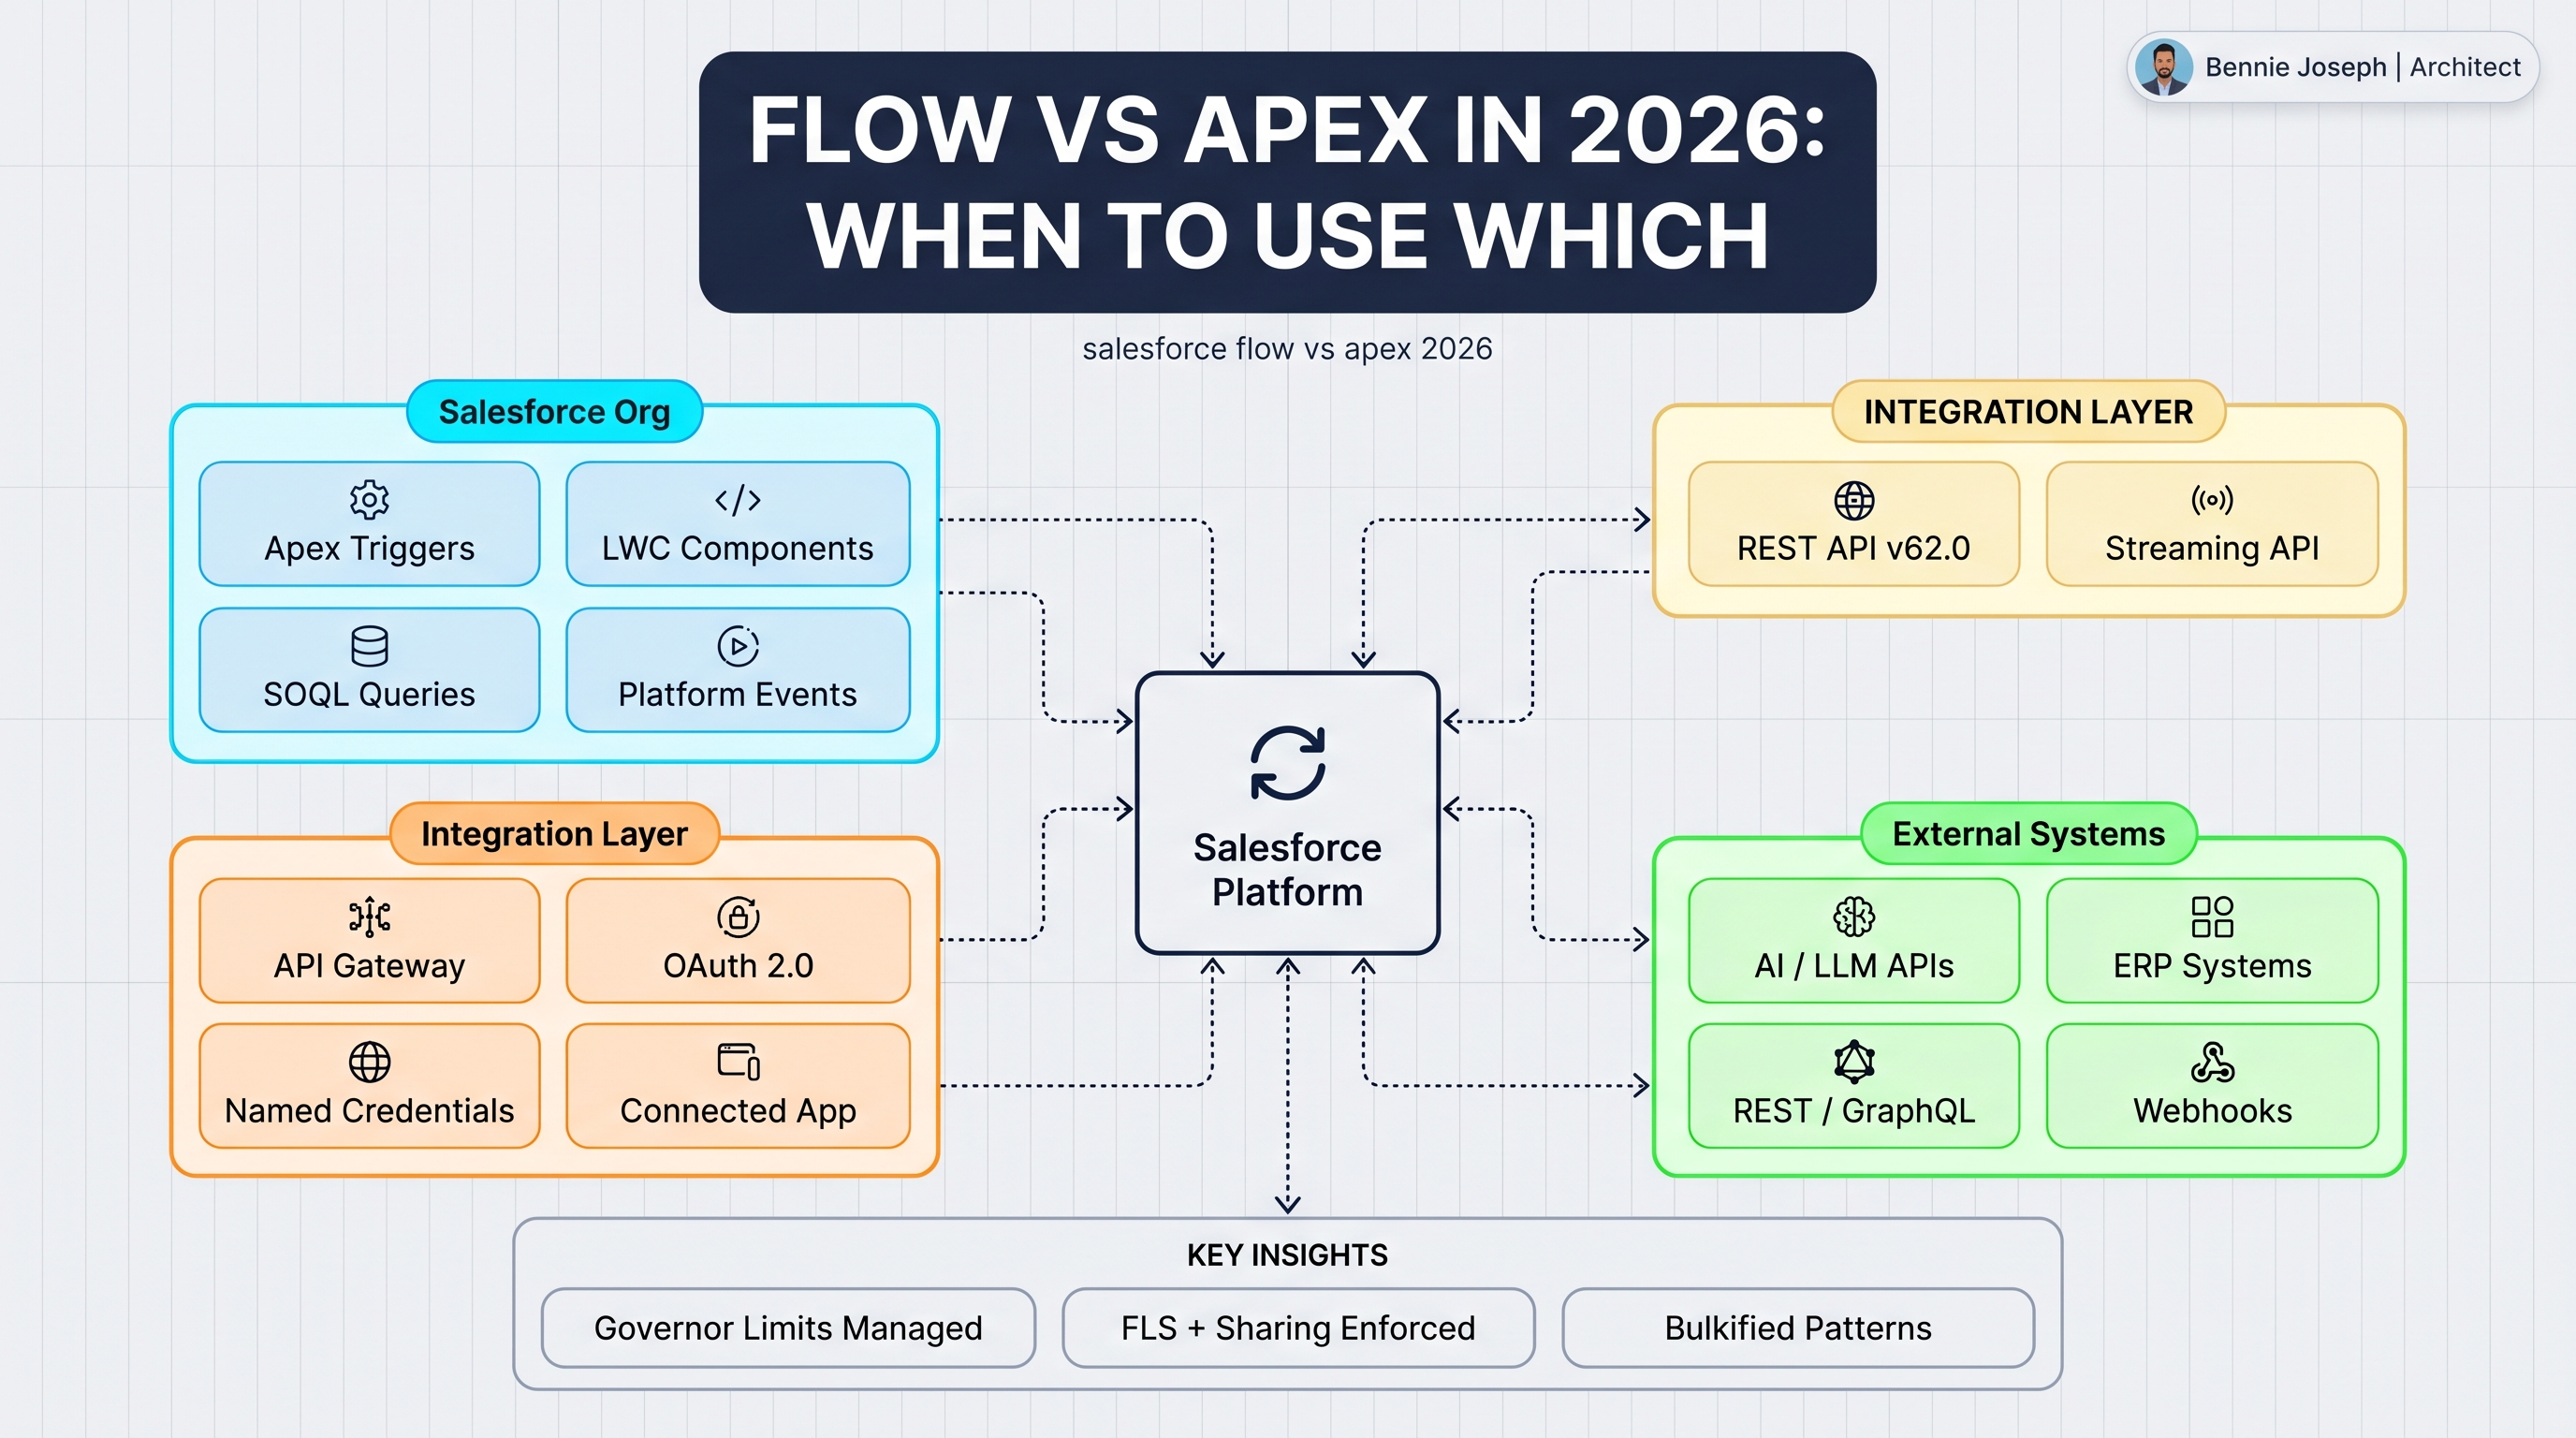
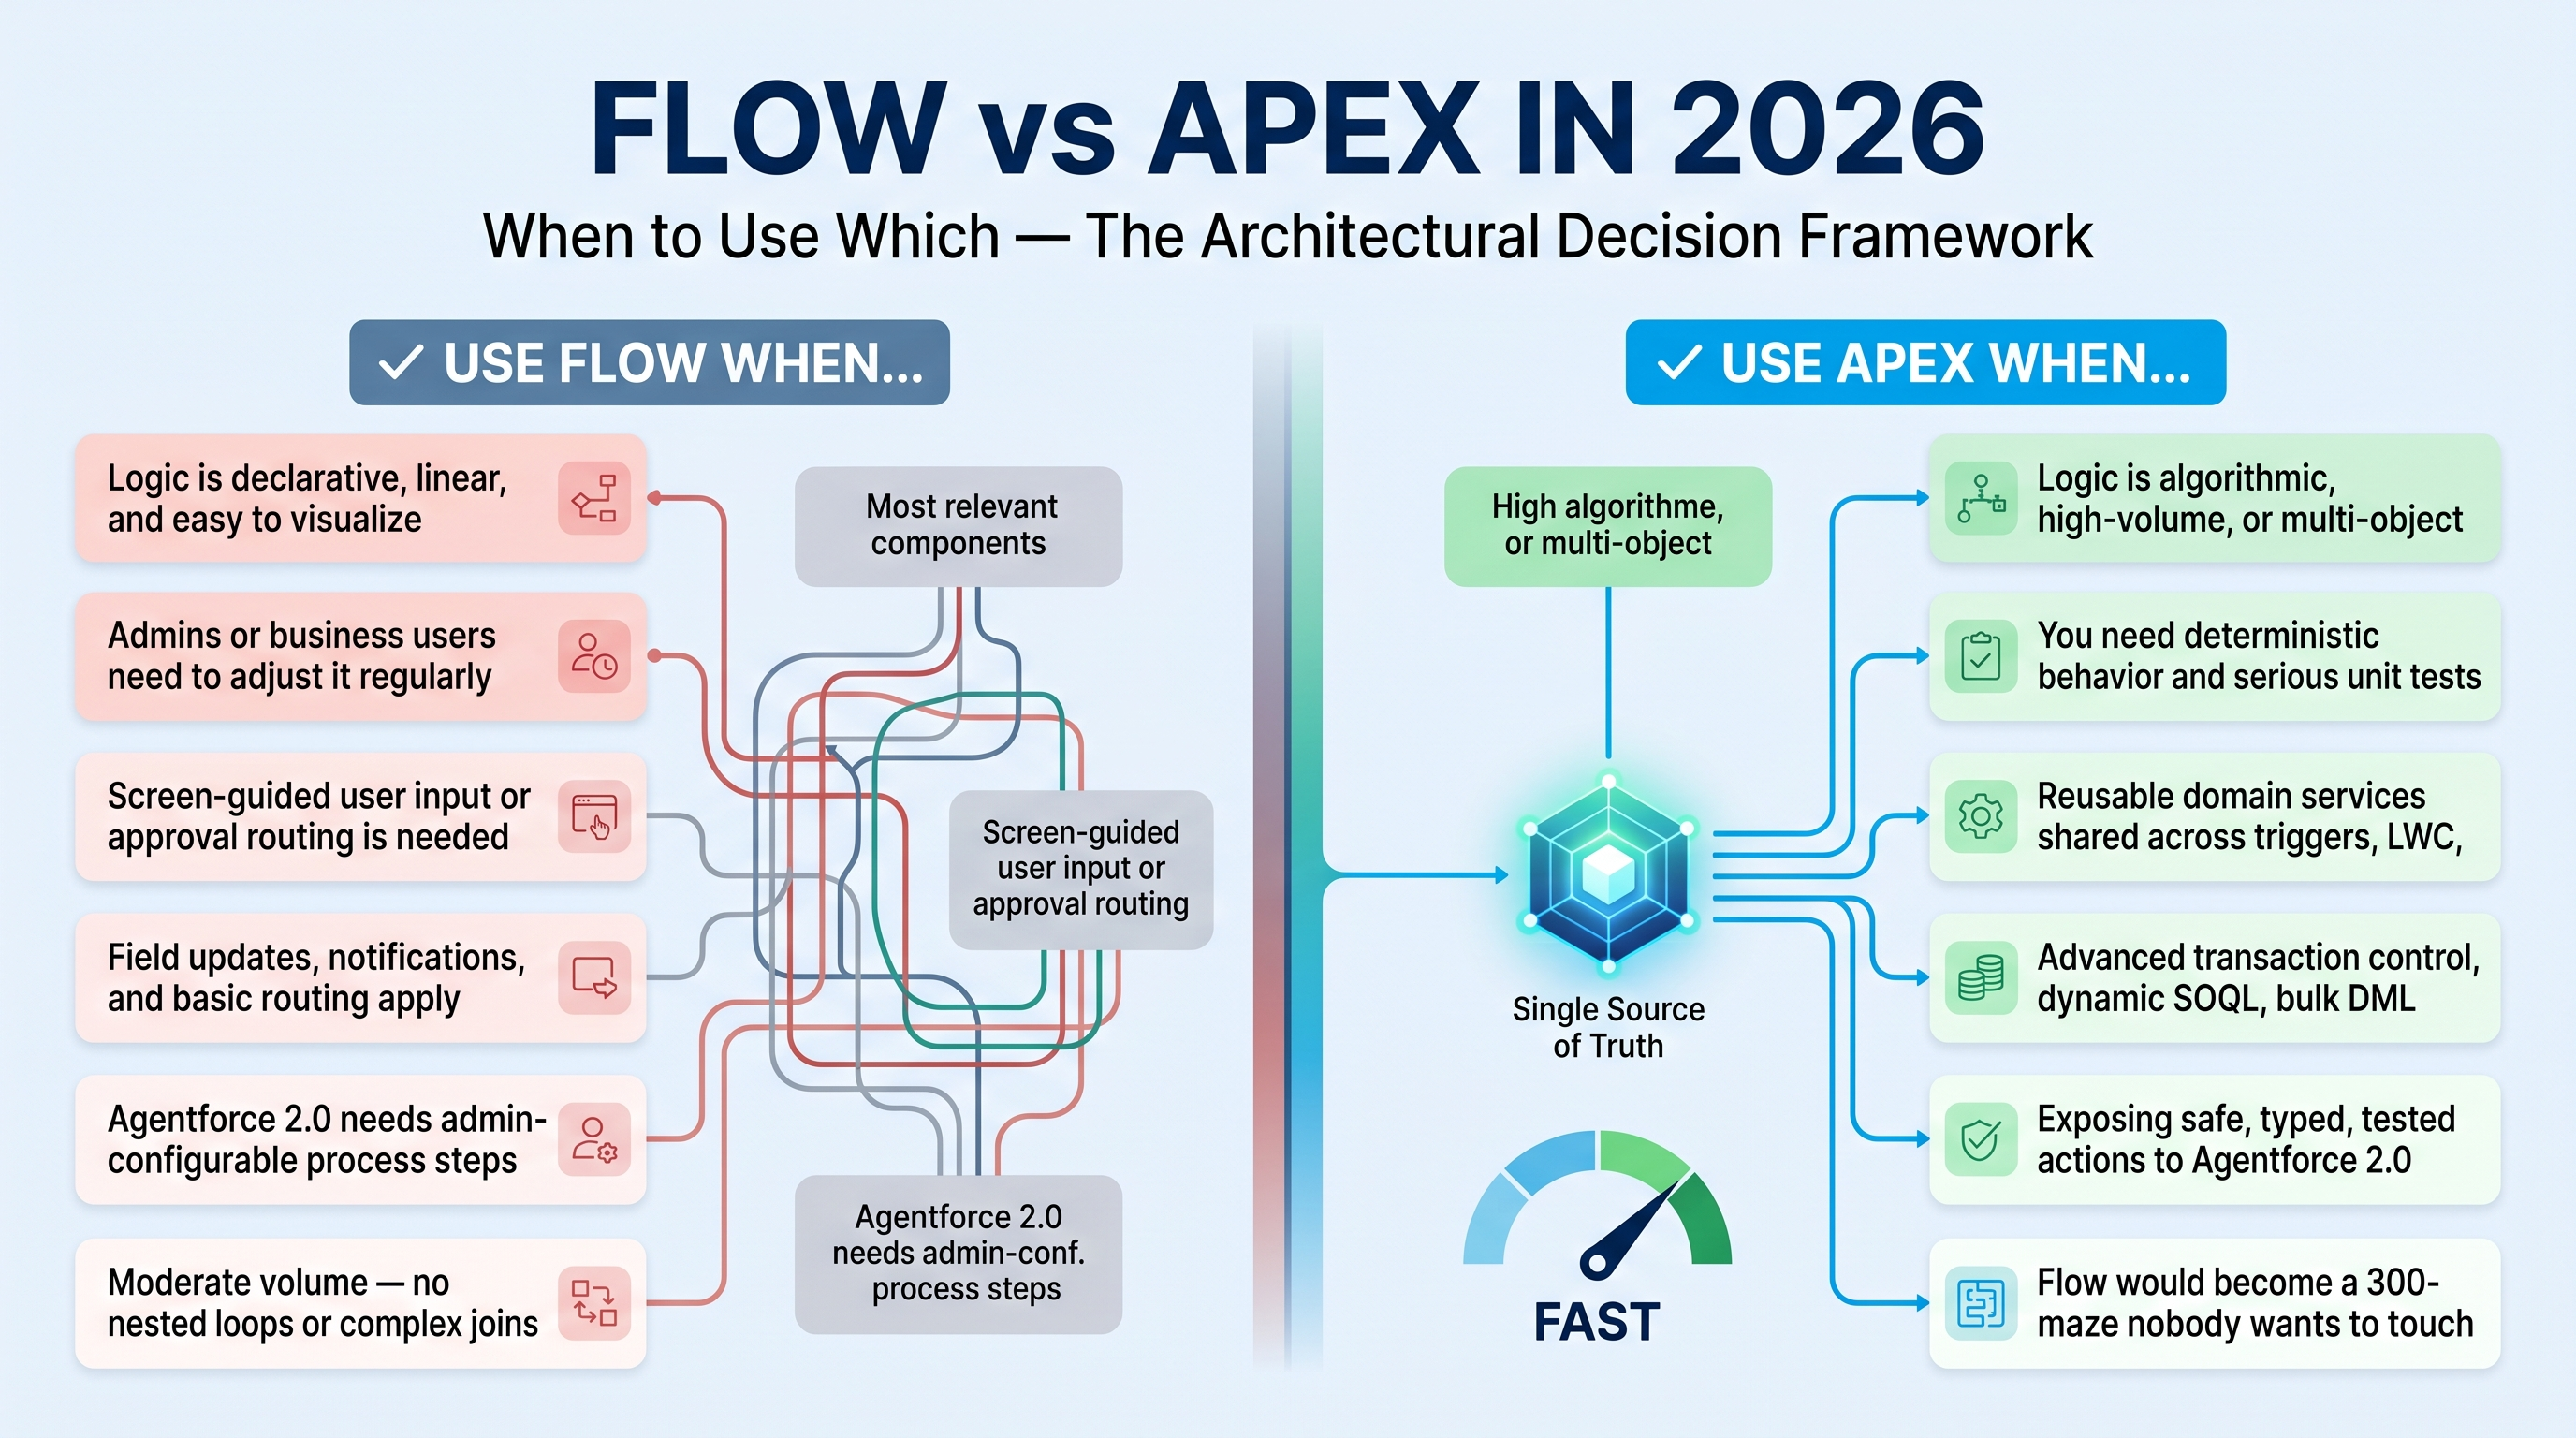
fix: flow vs apex post — alt text, Nano Banana 2 images, regenerate config
- Added descriptive alt text to both inline images
- Added flow-vs-apex-in-2026-when-to-use-which to POST_IMAGE_CONFIGS with
  Comparison cover, Comparison image-1 (8 real production scenarios),
  Blueprint image-2 (hybrid Flow + Apex pattern with invocable action code)
- Regenerated all 3 images with Nano Banana 2 replacing OpenAI originals

diff --git a/scripts/regenerate-images.ts b/scripts/regenerate-images.ts
@@ -606,6 +606,91 @@ results = vectordb.search(
     ],
   },
 
+  'flow-vs-apex-in-2026-when-to-use-which': {
+    cover: styleComparison({
+      title: 'FLOW vs APEX IN 2026',
+      subtitle: 'When to Use Which — The Architectural Decision Framework',
+      col1Title: '✓ USE FLOW WHEN...',
+      col1Points: [
+        'Logic is declarative, linear, and easy to visualize',
+        'Admins or business users need to adjust it regularly',
+        'Screen-guided user input or approval routing is needed',
+        'Field updates, notifications, and basic routing apply',
+        'Agentforce 2.0 needs admin-configurable process steps',
+        'Moderate volume — no nested loops or complex joins',
+      ],
+      col2Title: '✓ USE APEX WHEN...',
+      col2Points: [
+        'Logic is algorithmic, high-volume, or multi-object',
+        'You need deterministic behavior and serious unit tests',
+        'Reusable domain services shared across triggers, LWC, agents',
+        'Advanced transaction control, dynamic SOQL, bulk DML',
+        'Exposing safe, typed, tested actions to Agentforce 2.0',
+        'Flow would become a 300-node maze nobody wants to touch',
+      ],
+    }),
+    images: [
+      styleComparison({
+        title: 'FLOW vs APEX: Real Production Scenarios',
+        subtitle: '8 Decision Points — Which Tool Wins and Why',
+        col1Title: 'FLOW WINS',
+        col1Points: [
+          'Lead routing rules that change every quarter → admins own it',
+          'Screen wizard for guided renewal opportunity creation',
+          'Approval escalation with manager notification + task creation',
+          'Agentforce 2.0 triggered process: collect missing billing data',
+          'Record-triggered: if Country = Germany → apply DACH sales path',
+          'Fault email to ops team when exception path fires',
+        ],
+        col2Title: 'APEX WINS',
+        col2Points: [
+          'SLA recalculation across Critical / High / Standard tiers',
+          'Bulk case update: 200+ records, premium tier checks, queue routing',
+          'Dynamic SOQL with multi-object joins and conditional filters',
+          'Invocable action reused by Flow, LWC, Queueable, and agent',
+          'Logic requiring 20+ test methods to trust in production',
+          'Transactional write with idempotency key + audit log insert',
+        ],
+      }),
+      styleBlueprint({
+        title: 'HYBRID PATTERN: FLOW + APEX',
+        subtitle: 'Flow Owns the Process. Apex Owns the Complexity. Agentforce Triggers Both.',
+        badLabel: 'ANTI-PATTERN — All Logic in Flow',
+        goodLabel: 'BEST PRACTICE — Hybrid Boundary',
+        badCode: `// All logic in Flow — the 300-node maze
+// Get Records inside conditional path
+// Duplicated assignment rules across
+//   case-create and case-update flows
+// No unit tests possible for SLA rules
+// Random CPU timeouts under prod volume
+// Admins afraid to touch it`,
+        goodCode: `@InvocableMethod(label='Recalculate Entitlement')
+public static List<Response> recalculate(
+  List<Request> requests
+) {
+  // Flow: detects event, calls this action
+  // Apex: SLA calc, region, escalation tier
+  // Output: typed Response back to Flow
+  // Reusable: Flow + LWC + Agentforce 2.0
+}`,
+        whyCards: [
+          { label: 'Admin Visibility', icon: 'eye' },
+          { label: 'Eng Testability', icon: 'shield' },
+          { label: 'Agent Ready', icon: 'bot' },
+        ],
+        checklist: [
+          'Flow detects business event and calls invocable Apex action',
+          'Apex returns typed Response — no SLA logic inside Flow Builder',
+          'Same Apex action reused by LWC, Queueable, and Agentforce 2.0',
+          'Admins own process steps. Devs own the algorithm.',
+          'All complex rules covered by Apex unit tests at 200-record scale',
+        ],
+        authorLabel: 'Bennie Joseph | Salesforce Architect',
+        footerItems: ['Flow Orchestration', 'Apex Services', 'Invocable Actions', 'Agentforce 2.0'],
+      }),
+    ],
+  },
+
   'apex-cpu-limit-errors-the-real-fix': {
     cover: styleComparison({
       title: 'APEX CPU LIMIT ERRORS: The Real Fix',